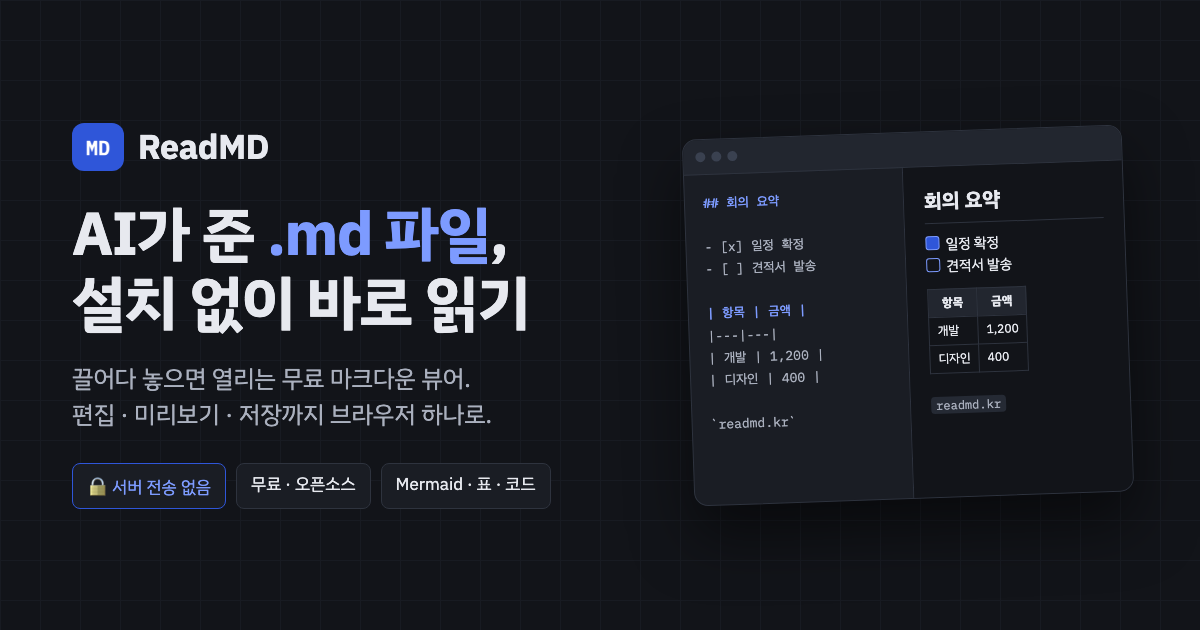
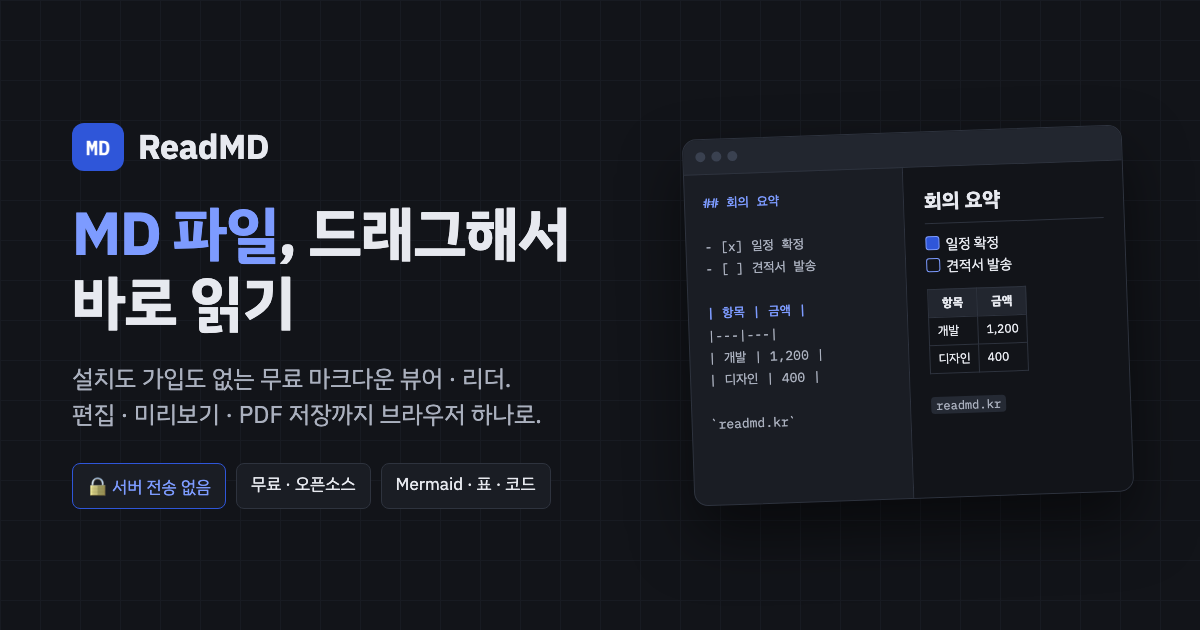
메타·첫 화면 문구를 검색어+행동 중심으로 개편 (MD 뷰어, 드래그해서 바로 읽기)
Claude-Session: https://claude.ai/code/session_015Ap3swX8Q6TWDuRjmma925

Changed region(s): [[0.0617, 0.3317, 0.4933, 0.5429], [0.0617, 0.573, 0.4625, 0.6937]]

diff --git a/public/index.html b/public/index.html
@@ -3,25 +3,25 @@
 <head>
 <meta charset="utf-8">
 <meta name="viewport" content="width=device-width, initial-scale=1">
-<title>ReadMD - md 파일 뷰어, 마크다운 뷰어</title>
-<meta name="description" content="Claude, ChatGPT가 만들어 준 .md 파일을 설치 없이 브라우저에서 바로 읽고 고치는 무료 마크다운 뷰어. 파일은 서버로 전송되지 않습니다.">
-<meta name="keywords" content="md 파일 뷰어, 마크다운 뷰어, md 파일 열기, markdown viewer, md viewer, 마크다운 편집기, ChatGPT md 파일, 클로드 md 파일">
+<title>MD 뷰어 · 마크다운 리더 - 파일을 드래그해서 바로 읽기 | ReadMD</title>
+<meta name="description" content="md 파일을 창에 드래그하면 바로 읽힙니다. 설치·가입 없음, 서버 전송 없음. 편집, 미리보기, PDF 저장까지 되는 무료 마크다운 뷰어·리더.">
+<meta name="keywords" content="md 뷰어, 마크다운 뷰어, md 리더, 마크다운 리더, md 파일 열기">
 <link rel="canonical" href="https://readmd.kr/">
 <link rel="icon" href="/favicon.svg" type="image/svg+xml">
 <meta property="og:type" content="website">
 <meta property="og:site_name" content="ReadMD">
-<meta property="og:title" content="ReadMD - md 파일을 바로 읽는 마크다운 뷰어">
-<meta property="og:description" content="AI가 만들어 준 .md 파일, 설치 없이 끌어다 놓기만 하세요. 편집·미리보기·저장까지, 파일은 브라우저 밖으로 나가지 않습니다.">
+<meta property="og:title" content="MD 파일, 드래그해서 바로 읽기 - ReadMD">
+<meta property="og:description" content="설치·가입 없이 md 파일을 창에 끌어다 놓으면 바로 읽힙니다. 편집, 미리보기, PDF 저장까지. 파일은 서버로 가지 않습니다.">
 <meta property="og:url" content="https://readmd.kr/">
 <meta property="og:image" content="https://readmd.kr/og.png">
 <meta property="og:image:width" content="1200">
 <meta property="og:image:height" content="630">
 <meta property="og:locale" content="ko_KR">
 <meta name="twitter:card" content="summary_large_image">
-<meta name="twitter:title" content="ReadMD - md 파일을 바로 읽는 마크다운 뷰어">
-<meta name="twitter:description" content="AI가 만들어 준 .md 파일, 설치 없이 끌어다 놓기만 하세요. 파일은 브라우저 밖으로 나가지 않습니다.">
+<meta name="twitter:title" content="MD 파일, 드래그해서 바로 읽기 - ReadMD">
+<meta name="twitter:description" content="설치·가입 없이 md 파일을 창에 끌어다 놓으면 바로 읽힙니다. 파일은 서버로 가지 않습니다.">
 <meta name="twitter:image" content="https://readmd.kr/og.png">
-<script type="application/ld+json">{"@context":"https://schema.org","@type":"SoftwareApplication","name":"ReadMD","alternateName":"리드엠디","applicationCategory":"UtilitiesApplication","operatingSystem":"Web","url":"https://readmd.kr/","description":"설치 없이 브라우저에서 .md 파일을 읽고 편집하는 무료 마크다운 뷰어","offers":{"@type":"Offer","price":"0","priceCurrency":"KRW"},"author":{"@type":"Organization","name":"주식회사 쓰리앤디"},"inLanguage":"ko"}</script>
+<script type="application/ld+json">{"@context":"https://schema.org","@type":"SoftwareApplication","name":"ReadMD","alternateName":"리드엠디","applicationCategory":"UtilitiesApplication","operatingSystem":"Web","url":"https://readmd.kr/","description":"md 파일을 드래그해서 바로 읽는 무료 마크다운 뷰어·리더. 설치·가입·서버 전송 없음.","offers":{"@type":"Offer","price":"0","priceCurrency":"KRW"},"author":{"@type":"Organization","name":"주식회사 쓰리앤디"},"inLanguage":"ko"}</script>
 <link rel="preconnect" href="https://fonts.googleapis.com">
 <link rel="stylesheet" href="https://fonts.googleapis.com/css2?family=IBM+Plex+Sans+KR:wght@400;500;600;700&family=IBM+Plex+Mono:wght@400;500&display=swap">
 <style>
@@ -274,11 +274,11 @@ const src = $('#src'), md = $('#md'), previewScroll = $('#previewScroll'), tabba
 
 const STORE = 'readmd.v1';
 const SPONSOR_URL = ''; // 예: https://buymeacoffee.com/readmd — 비워 두면 버튼이 숨겨집니다
-const SAMPLE_NAME = 'ReadMD 시작하기.md';
-const SAMPLE = `# ReadMD에 오신 것을 환영합니다
+const SAMPLE_NAME = '시작하기.md';
+const SAMPLE = `# MD 파일을 드래그해서 바로 읽으세요
 
-Claude나 ChatGPT가 만들어 준 \`.md\` 파일을 **설치 없이, VS Code 없이** 바로 읽고 고치는 무료 도구입니다.
-이 문서는 예시입니다. 왼쪽 원문을 고쳐 보면 오른쪽이 바로 바뀝니다.
+이 창 아무 곳에나 \`.md\` 파일을 **끌어다 놓으면** 열립니다. 설치도, 가입도 없습니다.
+Claude나 ChatGPT가 만들어 준 문서를 VS Code 없이 읽고 고칠 때 쓰세요. 이 글은 예시라서 왼쪽 원문을 고치면 오른쪽이 바로 바뀝니다.
 
 > 🔒 올린 파일은 **브라우저 안에서만** 처리됩니다. 어떤 서버로도 전송되지 않으니 회사 문서도 안심하고 여세요.
 
@@ -419,7 +419,7 @@ let renderSeq = 0;
 function render(force){
   const f = active();
   slugCounts = {};
-  if (!f){ md.innerHTML = '<div class="empty-state"><div><b>열린 문서가 없습니다</b>.md 파일을 이 창에 끌어다 놓거나, 위의 “열기” 버튼을 누르세요.</div></div>'; toc.innerHTML = ''; updateStat(); return; }
+  if (!f){ md.innerHTML = '<div class="empty-state"><div><b>md 파일을 이 창에 끌어다 놓으세요</b>바로 읽힙니다. 위의 “열기” 버튼으로 골라도 됩니다.</div></div>'; toc.innerHTML = ''; updateStat(); return; }
   const html = DOMPurify.sanitize(marked.parse(f.text), { ADD_ATTR: ['id'] });
   md.innerHTML = html;
   md.querySelectorAll('pre code[class^="language-"]').forEach(el => {
